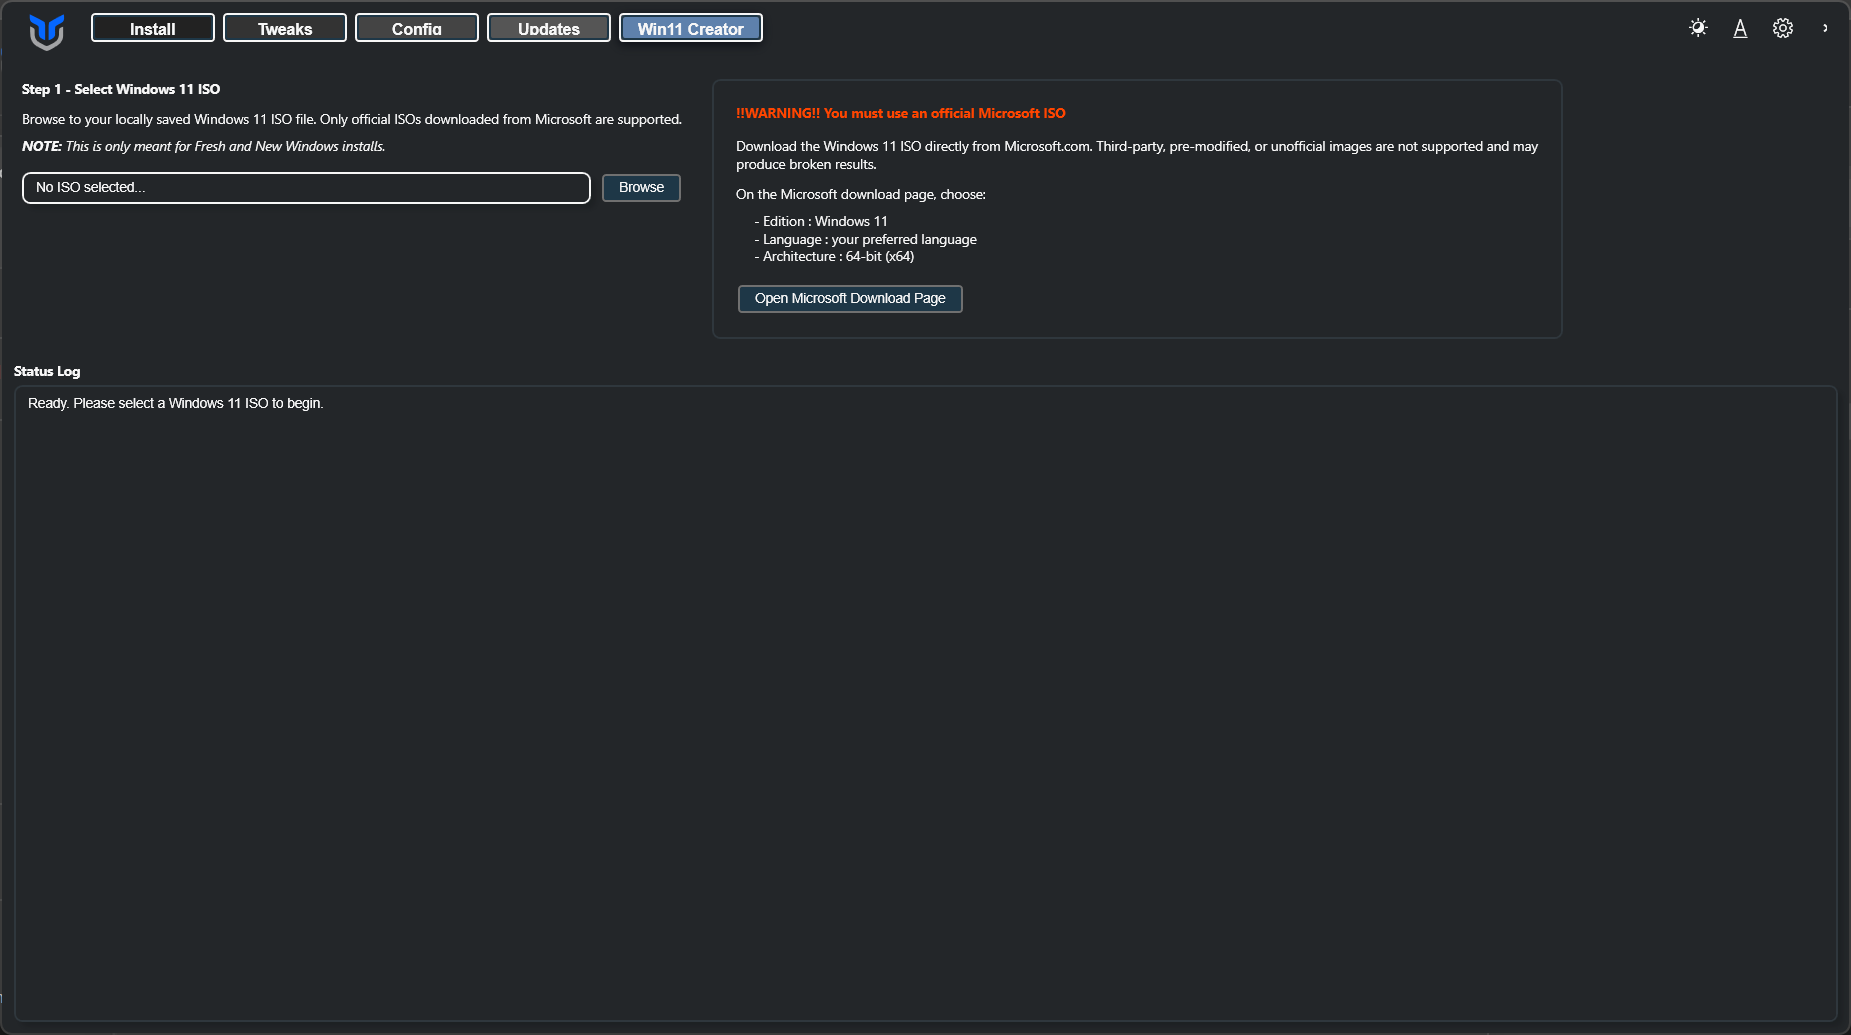
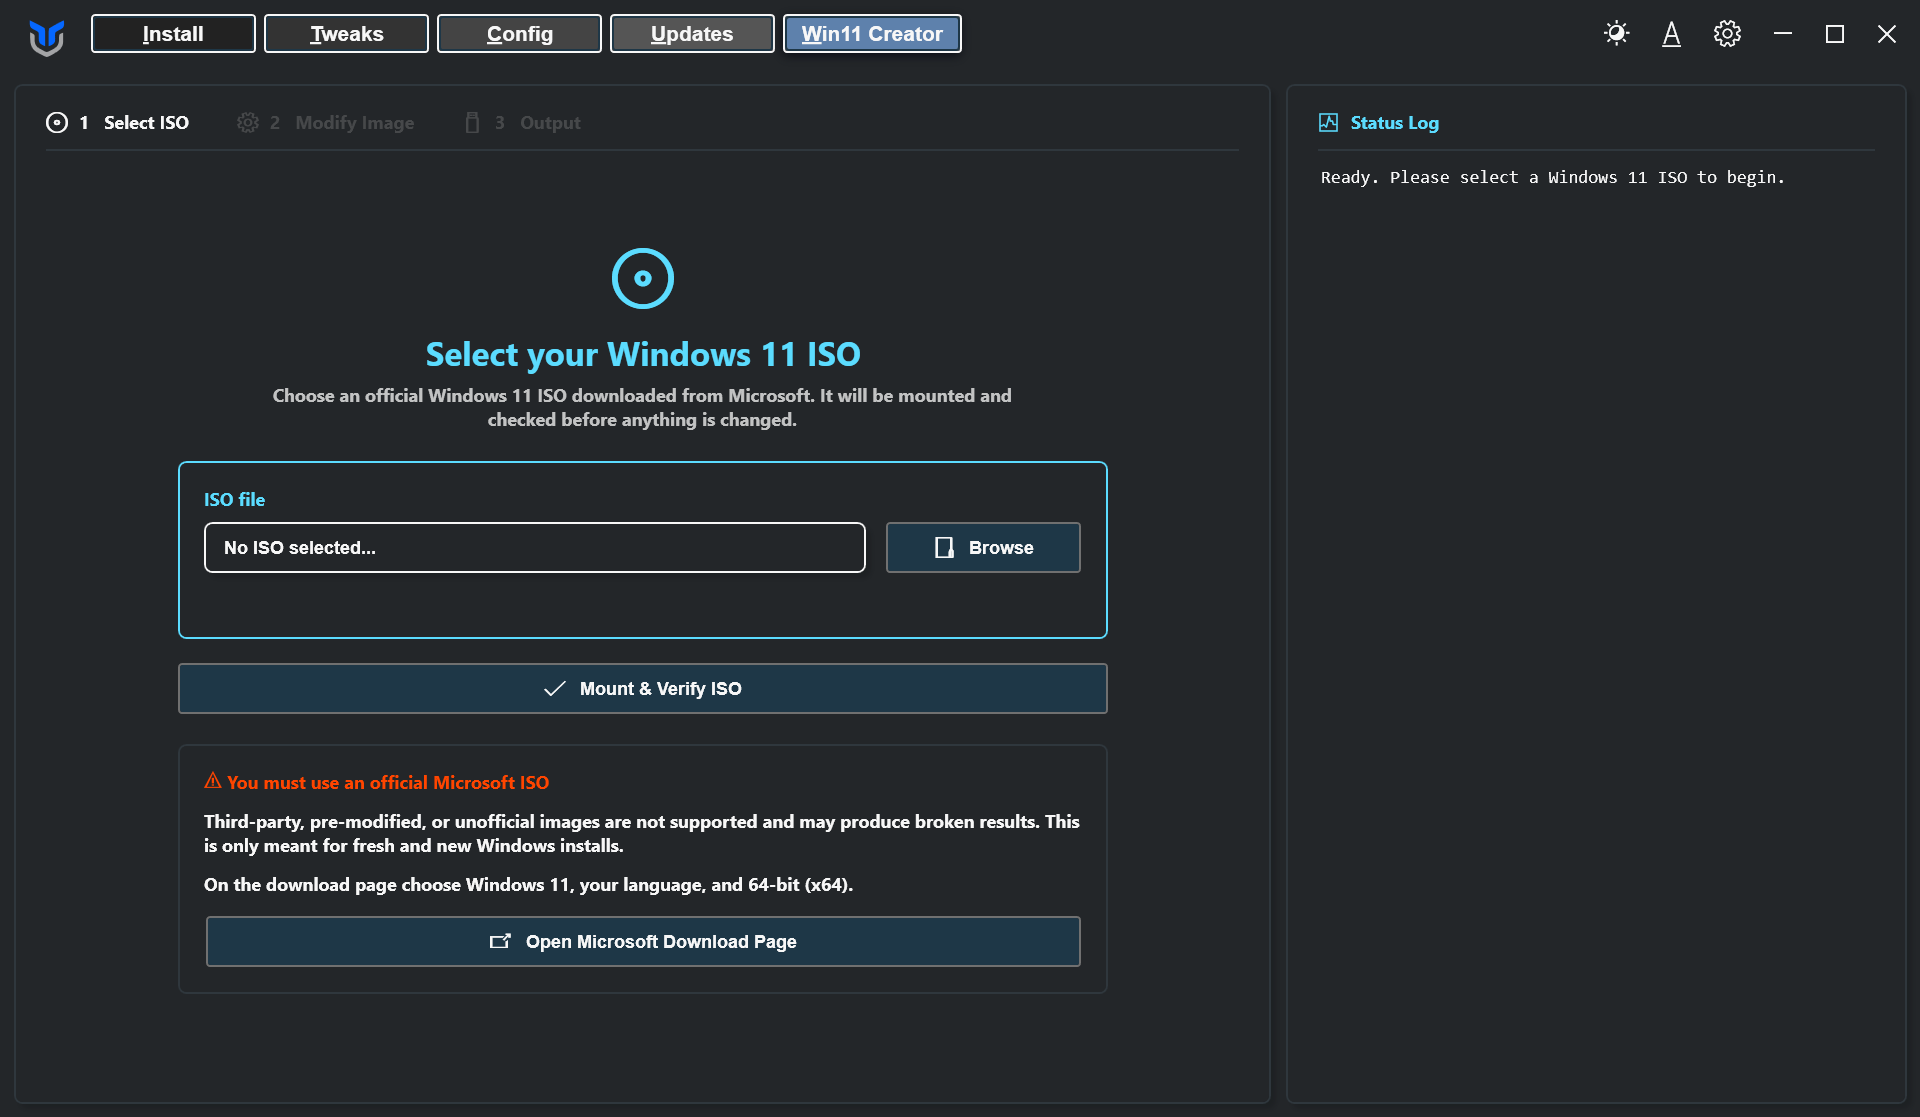
fix(win11creator): update UI labels and screenshot (#5107)
- Update driver injection checkbox tooltip to describe individual package injection instead of a single DISM pass
- Make modification working label conditional so it displays 'Preparing setup media' when driver injection is disabled
- Update documentation screenshot to show the current 3-step wizard layout and vertical status log

diff --git a/xaml/inputXML.xaml b/xaml/inputXML.xaml
@@ -1966,7 +1966,7 @@
                                                       Foreground="{DynamicResource MainForegroundColor}"
                                                       IsChecked="False"
                                                       Cursor="Hand"
-                                                      ToolTip="Stages boot-storage drivers for Setup and adds all exported drivers to the selected install.wim edition in one DISM pass."/>
+                                                      ToolTip="Injects boot-storage drivers for Setup and adds exported drivers to the selected install.wim edition individually, skipping incompatible packages."/>
                                         </StackPanel>
                                     </Border>
 
